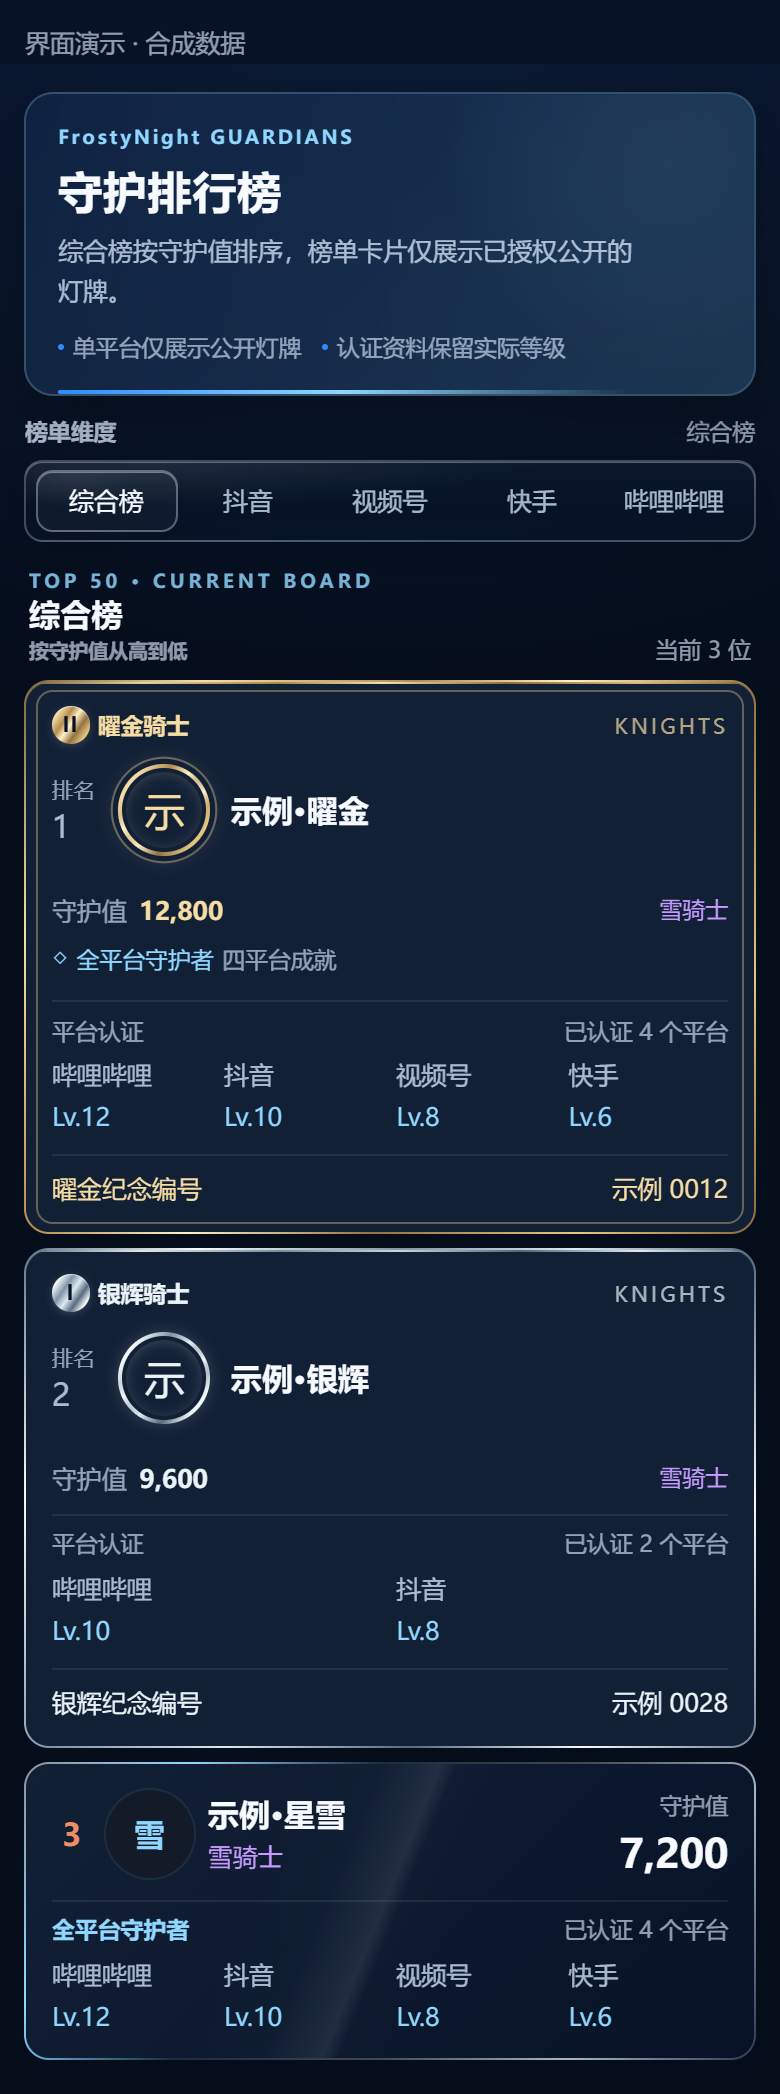
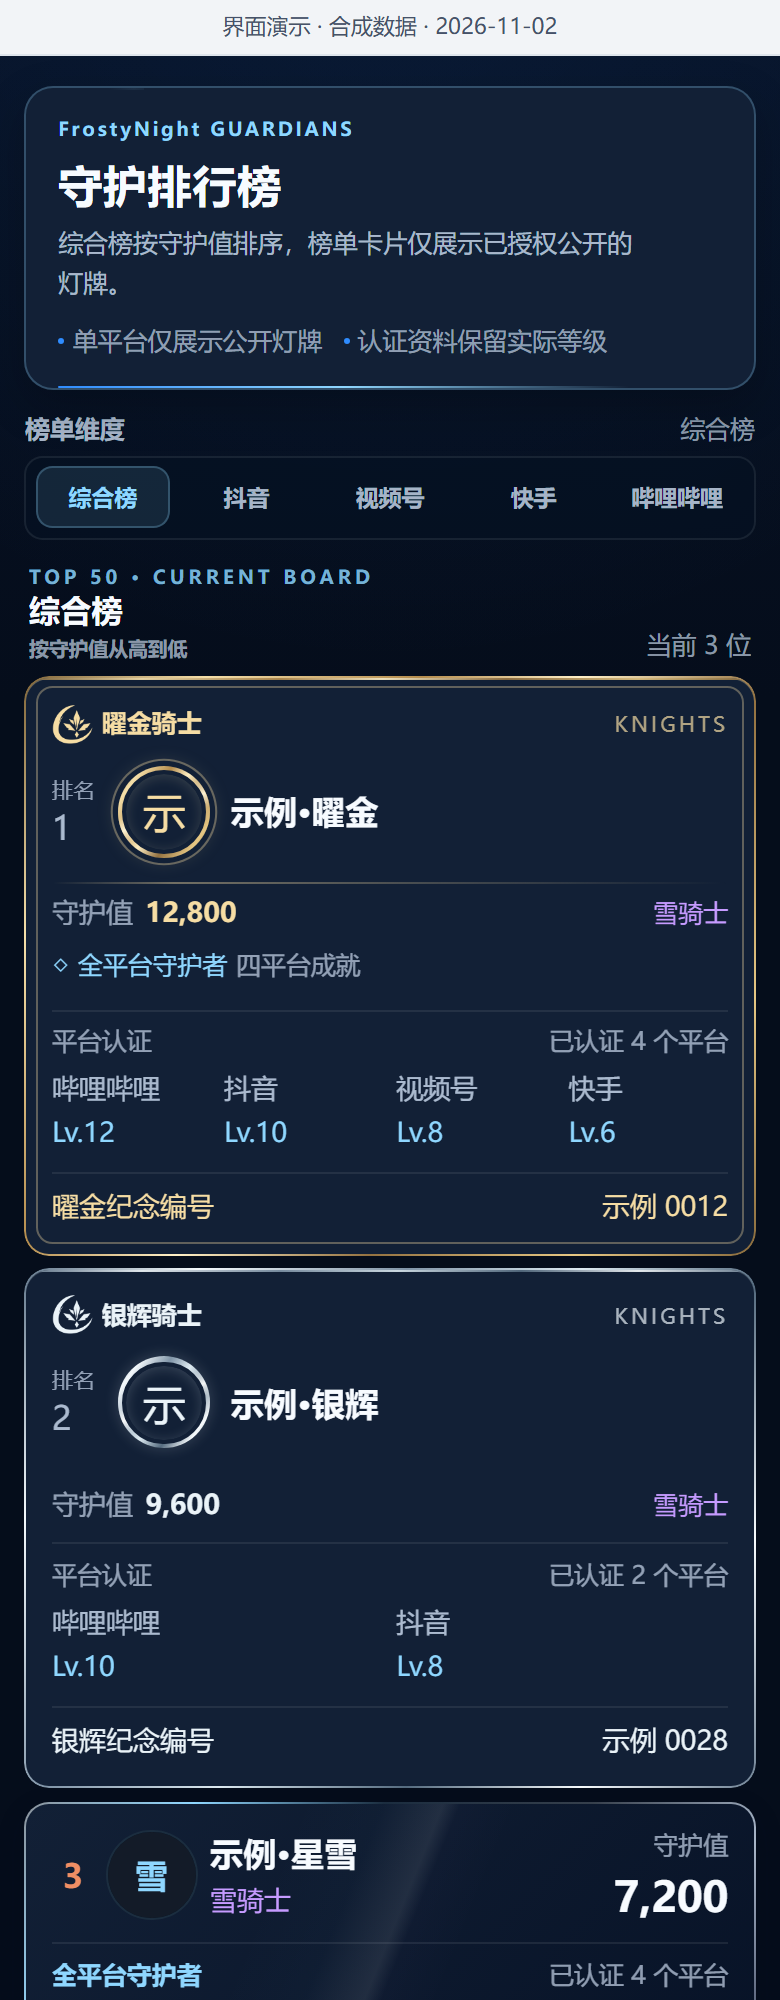
docs: refresh mini-program overview and current page previews

Changed region(s): [[0.0, 0.0, 1.0, 1.0], [0.7385, 0.713, 0.8308, 0.744], [0.9538, 0.961, 0.9846, 0.992]]

diff --git a/README.md b/README.md
@@ -1,137 +1,108 @@
 # 夜霜秘密基地
 
-**让更多人看见夜霜，也让每一份喜欢都有归处。**
+**把相遇、心意与陪伴，留在同一个基地。**
 
-夜霜秘密基地把**公域曝光与私域维护**连接在一个微信小程序里：用全国兽聚日历、创作者发现与合作内容吸引新朋友；用骑士团、守护值排行榜、周边、许愿池与日常互动，持续经营已经建立的陪伴关系。
+夜霜秘密基地是面向夜霜粉丝的微信小程序。你可以查询兽聚、参与基地活动与许愿、给夜霜写信并查看回信，也可以查看守护记录、管理头衔与装扮、了解骑士身份和周边服务。
 
-用户可以从查一次活动、认识一位创作者开始，自然接触夜霜的内容与形象。喜欢夜霜之后，也有一个稳定的基地，让分散在不同平台上的关注与支持得到记录，让身份可以展示，让互动持续发生。
+**资料更新：2026-11-02。** 本页依据当前项目及已于 2026-10-29 上传的 **1.9.2 开发版**整理；开发版上传不等于微信正式版上线。实际运行版本、开放功能与参与条件以微信内展示为准。
 
-## 公域曝光：给新朋友一个进入的理由
+## 从哪里开始
 
-公域部分面向更广泛的 Furry 圈用户。第一次认识夜霜的人，也能先找到有用或感兴趣的内容。
-
-| 入口 | 用户获得什么 | 对曝光的价值 |
-| --- | --- | --- |
-| **全国兽聚日历** | 按城市、月份和关键词查找已公开的活动，核对日期、场地与来源。 | 以实际查询需求建立访问入口，让用户在找活动的过程中认识基地。 |
-| **Furry Up 创作者与合作画师** | 发现创作者、创作方向、公开作品资料与合作信息。 | 为圈内创作者提供展示机会，让人与内容在基地被发现。 |
-| **夜霜系列表情包** | 打开微信表情合集，把喜欢的表情带进聊天。 | 让角色形象进入日常交流，延伸内容的触达场景。 |
-
-## 私域维护：让认识之后的关系持续发生
-
-基地把身份、支持记录、活动和实体收藏放在同一个空间，为已经关注夜霜的朋友提供持续参与的理由。
-
-<table>
-  <tr>
-    <td align="center" valign="top">
-      <p><strong>骑士团 · 身份与归属</strong></p>
-      <img src="images/knight-club.png" width="360" alt="夜霜骑士团界面演示：纪念编号、身份装扮与专属头衔权益">
-      <p>让陪伴拥有专属身份。<br>年度身份、纪念编号与装扮，让归属可以被认出。</p>
-    </td>
-    <td align="center" valign="top">
-      <p><strong>守护值排行榜 · 支持的记录</strong></p>
-      <img src="images/guardian-ranking.png" width="360" alt="守护值排行榜界面演示：合成用户、守护值与身份卡面">
-      <p>让长期支持留下记录。<br>汇集认证平台与支持记录，呈现持续积累的守护值。</p>
-    </td>
-  </tr>
-  <tr>
-    <td align="center" valign="top">
-      <p><strong>周边 · 实体收藏</strong></p>
-      <img src="images/merch.png" width="360" alt="周边小店界面演示：示例商品，非正式上架公告">
-      <p>把喜爱带到日常生活。<br>商品、定制与订单服务承接收藏；演示不代表已开放购买。</p>
-    </td>
-    <td align="center" valign="top">
-      <p><strong>许愿池 · 共同期待</strong></p>
-      <img src="images/wish-pool.png" width="360" alt="许愿池界面演示：示例愿望、愿力进度与免费白雪花参与">
-      <p>让日常参与有所期待。<br>用免费白雪花汇集愿力，查看当期进度与结果。</p>
-    </td>
-  </tr>
-</table>
-
-以上为当前项目界面的演示渲染，人物、数值、商品与活动均使用合成示例；实际权益与服务开放状态以小程序内展示为准。
-
-### 骑士团 · 身份与归属
-
-骑士团围绕年度会员身份组织权益，通过银辉、曜金档位、纪念编号、身份装扮和专属头衔，让一段陪伴拥有可辨认、可延续的身份。有效会员可将已装备的骑士卡面展示在个人档案与守护榜中，专属骑士头衔在会员到期后仍保留。
-
-会员身份与守护值、排名及免费成就分别计算，开通骑士会员本身不会直接增加守护值。骑士群与周边赠礼逐步开放；限时周边优惠作为独立活动，按活动状态提供，具体安排以小程序内公示为准。
-
-### 守护值排行榜 · 让支持被看见
-
-基地将已认证的平台等级与按规则认可的支持记录汇集为守护值，提供综合榜与分平台展示。用户可以查看自己的积累，也能认识其他守护者，让不同平台上的关注与支持形成一份持续的守护档案。
-
-头衔、免费成就与骑士卡面分别表达不同身份；用户可以管理自己的公开展示状态。排行榜为长期陪伴提供可见的记录和交流话题。
-
-### 周边 · 把喜爱带到日常生活
-
-周边把角色形象、纪念与线上陪伴延伸到实体收藏。小店与定制服务围绕商品或定制需求、订单进度和后续服务展开，让一次支持得到持续承接，也让收藏成为与夜霜有关的具体记忆。
-
-现货购买、新定制申请及相关优惠按实际开放状态提供；尚未开放的入口不代表已经可以下单。已有订单按页面提供的入口查询和处理。
-
-### 许愿池 · 给日常参与一个共同期待
-
-用户通过基地活动与任务获得免费的白雪花，再投入许愿池，参与当期愿望活动、查看进度与结果。许愿池将日常参与连接到具体期待，为持续回到基地提供动力。
-
-许愿池按当期规则和有效愿力抽取结果，不保证获得奖励；金雪花不能用于许愿。白雪花的免费参与路径与会员消费、实物周边购买分别运行。
-
-每日降雪、给夜霜写信与查看回信、头衔和装扮、夜霜大事记，则提供更轻量的回访与表达方式，让用户按自己的节奏积累基地经历。
-
-**产品希望连接的体验：查活动／发现创作者 → 认识夜霜 → 建立守护档案 → 参与互动 → 持续陪伴与支持。** 公域内容带来发现，私域功能延续关系。
-
-## 重点界面：全国兽聚日历
-
-想看看本城接下来有哪些兽聚，或为某个月的出行寻找活动？可以先选城市，再按月份查看日历；已经知道活动名称时，也可以直接搜索所选年份的已收录活动。
-
-| 你想查什么 | 可以怎样找 |
+| 入口 | 可以做什么 |
 | --- | --- |
-| 本城今年还有哪些活动？ | 搜索城市或选择省市，查看从今天到当年年底的已公开活动。 |
-| 某个月、某一天有什么活动？ | 切换月份，在月历中查看活动场次与规模标记；点选日期查看当天，或返回整月列表。 |
-| 记得名称，却忘了举办时间？ | 按活动名称、城市或场地等关键词搜索所选年份，搜索结果不受当前地区筛选影响。 |
-| 时间、地点和消息来源是什么？ | 查看活动卡片中的日期、城市、场地和来源；有公开资料时还可查看更新时间、官方群及联系方式。 |
+| **首页** | 从常用入口进入兽聚日历、活动中心、许愿池、写信、守护榜与表情包。 |
+| **参与** | 集中查找活动、写信和许愿入口，继续查看兽聚与守护记录。 |
+| **发现** | 浏览夜霜周边、系列表情包、大事记及联创伙伴。 |
+| **我的** | 查看个人守护档案、雪花资产、头衔装扮、骑士身份与自己的相关记录。 |
 
-日历区分大型、中型、小型与规模待定活动，跨日活动会标记在对应日期上。活动公告支持在页面内阅读公开文字；无法读取时提供原始来源链接，方便继续核对。地区筛选支持中国大陆、香港、澳门和台湾地区；具体收录与活动安排以小程序和主办方最新公告为准。
+## 最近有哪些变化
+
+| 版本 / 范围 | 变化 |
+| --- | --- |
+| **1.9.2 · 2026-10-29** | 清理选择框和卡片上的装饰箭头，保留返回、翻月等实际方向操作；折叠内容用“展开 / 收起”表达。 |
+| **1.9.1 · 2026-10-29** | 优化运营端来信详情：原信使用冰蓝阅读区，多次回复使用淡粉紫时间线，短信按内容调整高度。 |
+| **1.9.0 · 2026-10-28** | 统一前后台常用按钮、加载与禁用反馈，细化底部玻璃导航的选中、按压和滑动反馈。 |
+| **1.6.1–1.8 系列 · 2026-10-28** | 修复历史来信读取，支持按发送时或当前昵称查询；运营端增加连续回复、收藏和处理状态，改善长信阅读、刷新与列表删除时的位置保持。 |
+| **当前功能范围** | 基地围绕粉丝活动与日常陪伴运行。旧创作者 / 画师业务已迁出，兽设抠图已移除；夜霜联创伙伴仍作为公开合作内容保留。 |
+
+上述版本有开发版上传记录；本页不据此宣称微信已审核或正式发布。更详细的资料变化见 [更新记录](CHANGELOG.md)。
+
+## 界面一览
+
+下列 **9 张图**均使用当前小程序页面模板与样式，配合合成演示数据在浏览器中渲染并截图，**不是微信真机截图**。每张图均带“界面演示 · 合成数据”标识；没有公开真实用户、信件或订单。骑士团图片展示权益区域，其余为页面视口展示。
 
 <table>
   <tr>
     <td align="center" valign="top">
-      <img src="images/furcon-calendar.png" width="360" alt="全国兽聚日历界面演示：查询、地区筛选、月历与活动列表">
-      <p><strong>按月查看活动</strong><br>日期、场次与规模在月历中集中呈现。</p>
+      <p><strong>首页 · 常用入口</strong></p>
+      <img src="images/home.png" width="340" alt="当前首页界面演示：写信推荐、常用入口与底部导航">
+      <p>先找到今天想做的事。</p>
     </td>
     <td align="center" valign="top">
-      <img src="images/furcon-city.png" width="360" alt="城市后续兽聚查询界面演示">
-      <p><strong>查询本城后续兽聚</strong><br>从今天到当年年底，按日期浏览已收录活动。</p>
+      <p><strong>参与 · 活动与互动</strong></p>
+      <img src="images/participate.png" width="340" alt="参与基地界面演示：活动中心、写信、许愿、兽聚与守护榜">
+      <p>把活动、心意与相聚放在一起。</p>
+    </td>
+  </tr>
+  <tr>
+    <td align="center" valign="top">
+      <p><strong>给夜霜写信</strong></p>
+      <img src="images/write-letter.png" width="340" alt="写信页界面演示：合成昵称、正文、草稿与发送操作">
+      <p>免费写信，保留草稿，在“夜霜来信”查看回复。</p>
+    </td>
+    <td align="center" valign="top">
+      <p><strong>运营端 · 来信收件箱</strong></p>
+      <img src="images/letter-inbox.png" width="340" alt="运营端来信收件箱演示：两封合成信件、昵称查询、收藏和处理状态">
+      <p>按状态跟进与继续回复；此图不是用户间公开信箱。</p>
+    </td>
+  </tr>
+  <tr>
+    <td align="center" valign="top">
+      <p><strong>全国兽聚日历</strong></p>
+      <img src="images/furcon-calendar.png" width="340" alt="全国兽聚日历演示：2026年11月月历、查询筛选和虚构活动">
+      <p>按月份、城市或关键词查询，核对公开来源。</p>
+    </td>
+    <td align="center" valign="top">
+      <p><strong>守护排行榜</strong></p>
+      <img src="images/guardian-ranking.png" width="340" alt="守护排行榜界面演示：合成用户的守护值、认证平台与骑士卡面">
+      <p>呈现已认证的平台等级与规则认可的支持记录。</p>
+    </td>
+  </tr>
+  <tr>
+    <td align="center" valign="top">
+      <p><strong>骑士团 · 身份与权益</strong></p>
+      <img src="images/knight-club.png" width="340" alt="骑士团权益区域演示：纪念编号、装扮、头衔与逐步开放的权益">
+      <p>查看年度身份、纪念编号与权益安排。</p>
+    </td>
+    <td align="center" valign="top">
+      <p><strong>许愿池 · 日常参与</strong></p>
+      <img src="images/wish-pool.png" width="340" alt="许愿池界面演示：虚构奖品、愿力进度与开奖状态">
+      <p>用免费白雪花参与，查看愿力进度与活动结果。</p>
     </td>
   </tr>
 </table>
 
-**图片说明：**本页七张图片均根据当前小程序页面模板与样式（WXML/WXSS），使用合成演示数据在浏览器中渲染，用于说明界面与操作流程。画面中的活动、用户、排名、数值、商品和日期仅作示例，不是真实用户记录、实时活动或微信真机截图；商品和权益以小程序内实际开放状态为准。
+<p align="center"><strong>周边小店 · 商品与订单入口</strong></p>
+<p align="center"><img src="images/merch.png" width="340" alt="周边小店界面演示：示例商品、订单与定制入口，现货购买显示未开放"></p>
+<p align="center">现货、定制与订单服务按实际开放状态提供；图中价格、库存均为虚构，角色图不是商品实拍。</p>
 
-## 更多内容发现
+## 参与前了解这些
 
-- **Furry Up 创作者：**按昵称、标签或简介查找创作者，浏览同意公开的资料、创作方向与联创记录；也可查看页面提供的粉丝榜和月涨粉预估榜。预估根据已有数据计算，来源与更新时间以页面标注为准。
-- **合作画师：**了解画师擅长方向、代表作品与约稿状态，按页面信息咨询排期。本仓库只介绍该功能，不收录画师作品。
-- **系列表情包：**从小程序打开夜霜微信表情合集，把喜欢的表情添加到日常聊天中。
+- **写信与回信：**写信免费，仅发送给夜霜运营后台，不在小程序内公开展示，也不提供用户间发帖、评论或私信。是否回复由夜霜决定。
+- **白雪花与许愿：**白雪花通过基地降雪、活动与任务等免费路径获得；许愿按当期规则及有效愿力抽取结果，不保证获奖。金雪花不能用于许愿。
+- **守护与身份：**守护值按已认证平台与认可支持记录计算；会员身份不会直接增加守护值。头衔、卡面装扮与榜单展示分别管理。
+- **骑士与周边：**年度会员权益、开通状态、骑士群、赠礼及独立限时优惠以小程序内公示为准；展示界面不代表相关服务已开放。
+- **兽聚资料：**日历仅展示已收录的公开活动。图中活动为虚构示例，真实日期、场地和安排请继续核对主办方公告。
 
-## 连接曝光与参与的首页
+## 使用、下载资料与反馈
 
-首页将公开内容和粉丝互动入口放在一起：新朋友可以从兽聚日历开始，熟悉基地的朋友可以继续参与活动、许愿、写信和查看守护榜。
+通过夜霜公布的正式微信小程序入口进入。这里提供的是**闭源产品的公开介绍**，不提供 APK、EXE、小程序安装包或产品源码。
 
-<p align="center">
-  <img src="images/home.png" width="360" alt="夜霜秘密基地游客首页界面演示">
-</p>
-<p align="center">游客首页演示：让发现基地与持续参与拥有共同入口。</p>
-
-具体开放功能、参与条件和服务状态以微信小程序内实际展示为准。
-
-## 如何使用与下载资料
-
-通过运营方公布的正式微信小程序入口进入，实际运行版本以微信内显示为准。
-
-[GitHub Releases](https://github.com/frostynight-furry/yeshuang-secret-base-releases/releases) 提供产品介绍资料包，包含本页、更新记录、闭源说明与七张界面演示图片，方便离线查看。本次发布不提供 APK、EXE 或可独立安装的小程序包；发布标签标识公开资料版本，不代表微信审核通过或正式版本上线。
-
-- [更新记录](CHANGELOG.md)
-- [问题反馈](https://github.com/frostynight-furry/yeshuang-secret-base-releases/issues)
+- [下载本次图文资料包](https://github.com/frostynight-furry/yeshuang-secret-base-releases/releases/tag/public-info-2026-11-02)
+- [查看公开资料更新记录](CHANGELOG.md)
+- [提交一般问题反馈](https://github.com/frostynight-furry/yeshuang-secret-base-releases/issues)
 - [闭源与图片权利说明](NOTICE.md)
 
-反馈时请说明设备系统、微信版本、问题现象和复现步骤。涉及个人账户或订单的问题，请使用小程序内的支持入口；公开 Issue 中请勿填写账户凭据或个人隐私信息。
+反馈时请说明设备、微信版本、问题现象和复现步骤。涉及个人账号、信件或订单，请使用小程序内支持入口，不在公开 Issue 中填写隐私信息。
 
-产品采用闭源方式维护。本仓库仅公开产品介绍、演示图片和发布资料；GitHub 自动生成的 `Source code (zip)` / `Source code (tar.gz)` 也仅包含这些公开资料，不包含小程序或服务端源码。
+GitHub 发布标签只标记公开资料版本。自动生成的 `Source code (zip)` / `Source code (tar.gz)` 也仅包含本仓库的介绍文档与演示图片，不包含小程序或服务端源码。

diff --git a/NOTICE.md b/NOTICE.md
@@ -1,9 +1,11 @@
 # 闭源与权利说明
 
-“夜霜秘密基地”产品采用闭源方式维护。本仓库仅公开产品介绍与发布资料，不提供产品源码，也不授予产品源码的使用、修改或再分发许可。
+“夜霜秘密基地”产品采用闭源方式维护。本仓库只公开产品介绍、资料更新记录与界面展示图，不提供小程序或服务端源码，也不授予产品源码的使用、修改或再分发许可。
 
-产品名称、标识、角色形象、图片及其他素材的权利归各自权利人所有。本仓库的公开展示不代表授予这些素材的使用许可。
+产品名称、标识、角色形象、图片及其他素材的权利归各自权利人所有。公开展示不代表授予这些素材的使用许可。
 
-`images/` 下的七张图片根据当前小程序页面模板与样式（WXML/WXSS），使用合成演示数据在浏览器中渲染，仅用于产品界面说明。画面中的用户、排名、数值、商品、活动与日期均为示例，不代表真实用户记录、实时活动或微信真机截图，也不表示示例商品已经上架或相关权益已经开放。活动安排和商品、权益状态以实际公告为准。本资料包不收录合作画师作品。
+`images/` 下的九张图片于 2026-11-02 根据当前小程序页面模板与样式（WXML/WXSS），使用合成演示数据在浏览器中渲染并截图。它们用于说明界面，不是微信模拟器或实体手机截图；画面中的用户、信件、排名、纪念编号、数值、价格、库存、商品与活动均为示例，不是真实用户资料、实时数据或上架公告。骑士团图片为权益区域展示。角色图不是商品或奖品实拍。
 
-GitHub 自动生成的仓库归档仅包含本仓库的公开文档和演示图片。产品实际使用规则以微信小程序内公示的相关条款为准。
+截图没有连接线上业务、发送真实信件、下单、支付或发布活动；运营端收件箱使用虚构信件，不向普通用户开放。活动、会员权益、商品及服务的实际开放状态，以微信小程序和主办方公告为准。本资料包不收录合作画师作品。
+
+本次介绍依据已上传的 1.9.2 开发版与当前项目文件整理，不能作为微信正式版上线或审核通过的凭据。GitHub 发布标签标识资料版本；本仓库归档与资料包均只包含公开文档和演示图片。

diff --git a/CHANGELOG.md b/CHANGELOG.md
@@ -2,6 +2,18 @@
 
 这里记录 GitHub 公开介绍资料的变化。小程序产品版本和正式上线状态以微信内实际展示为准。
 
+## public-info-2026-11-02 · 2026-11-02
+
+- 按当前小程序实际范围重写介绍，说明首页、参与、发现与“我的”的使用路径，突出活动、写信回信、守护记录、头衔装扮、骑士身份及周边订单。
+- 汇总 1.6.1–1.9.2 已有更新：历史来信与昵称查询、连续回复与收藏、处理状态及列表位置保持、统一按钮与玻璃导航、来信详情阅读与装饰箭头清理。
+- 核对 1.9.2 开发版于 2026-10-29 成功上传的记录，明确开发版上传不等于微信正式版上线；本轮没有重新上传小程序或部署云函数。
+- 更新首页、兽聚日历、守护排行榜、骑士团、周边、许愿池六张图，新增参与、写信、运营端来信收件箱三张图；移除重复且日期过时的城市查询图，当前共九张。
+- 所有配图使用当前 WXML/WXSS 与合成数据在浏览器中重新渲染并截图，统一标注演示性质；没有公开真实用户、信件、订单或源码。
+- 移除旧创作者 / 画师业务仍在基地运行的表述，说明这些业务已迁出、抠图已移除；保留基地联创伙伴与表情包的准确介绍。
+- 同步仓库简介、权利说明与含九张图片的新版公开资料包。
+
+以下为当时公开资料的历史记录，其中旧功能介绍不代表当前仍然提供。
+
 ## public-info-2026-10-16 · 2026-10-16
 
 - 补齐骑士团、守护值排行榜、周边、许愿池四张私域界面演示图，按“身份、记录、收藏、参与”组成双列图组。
